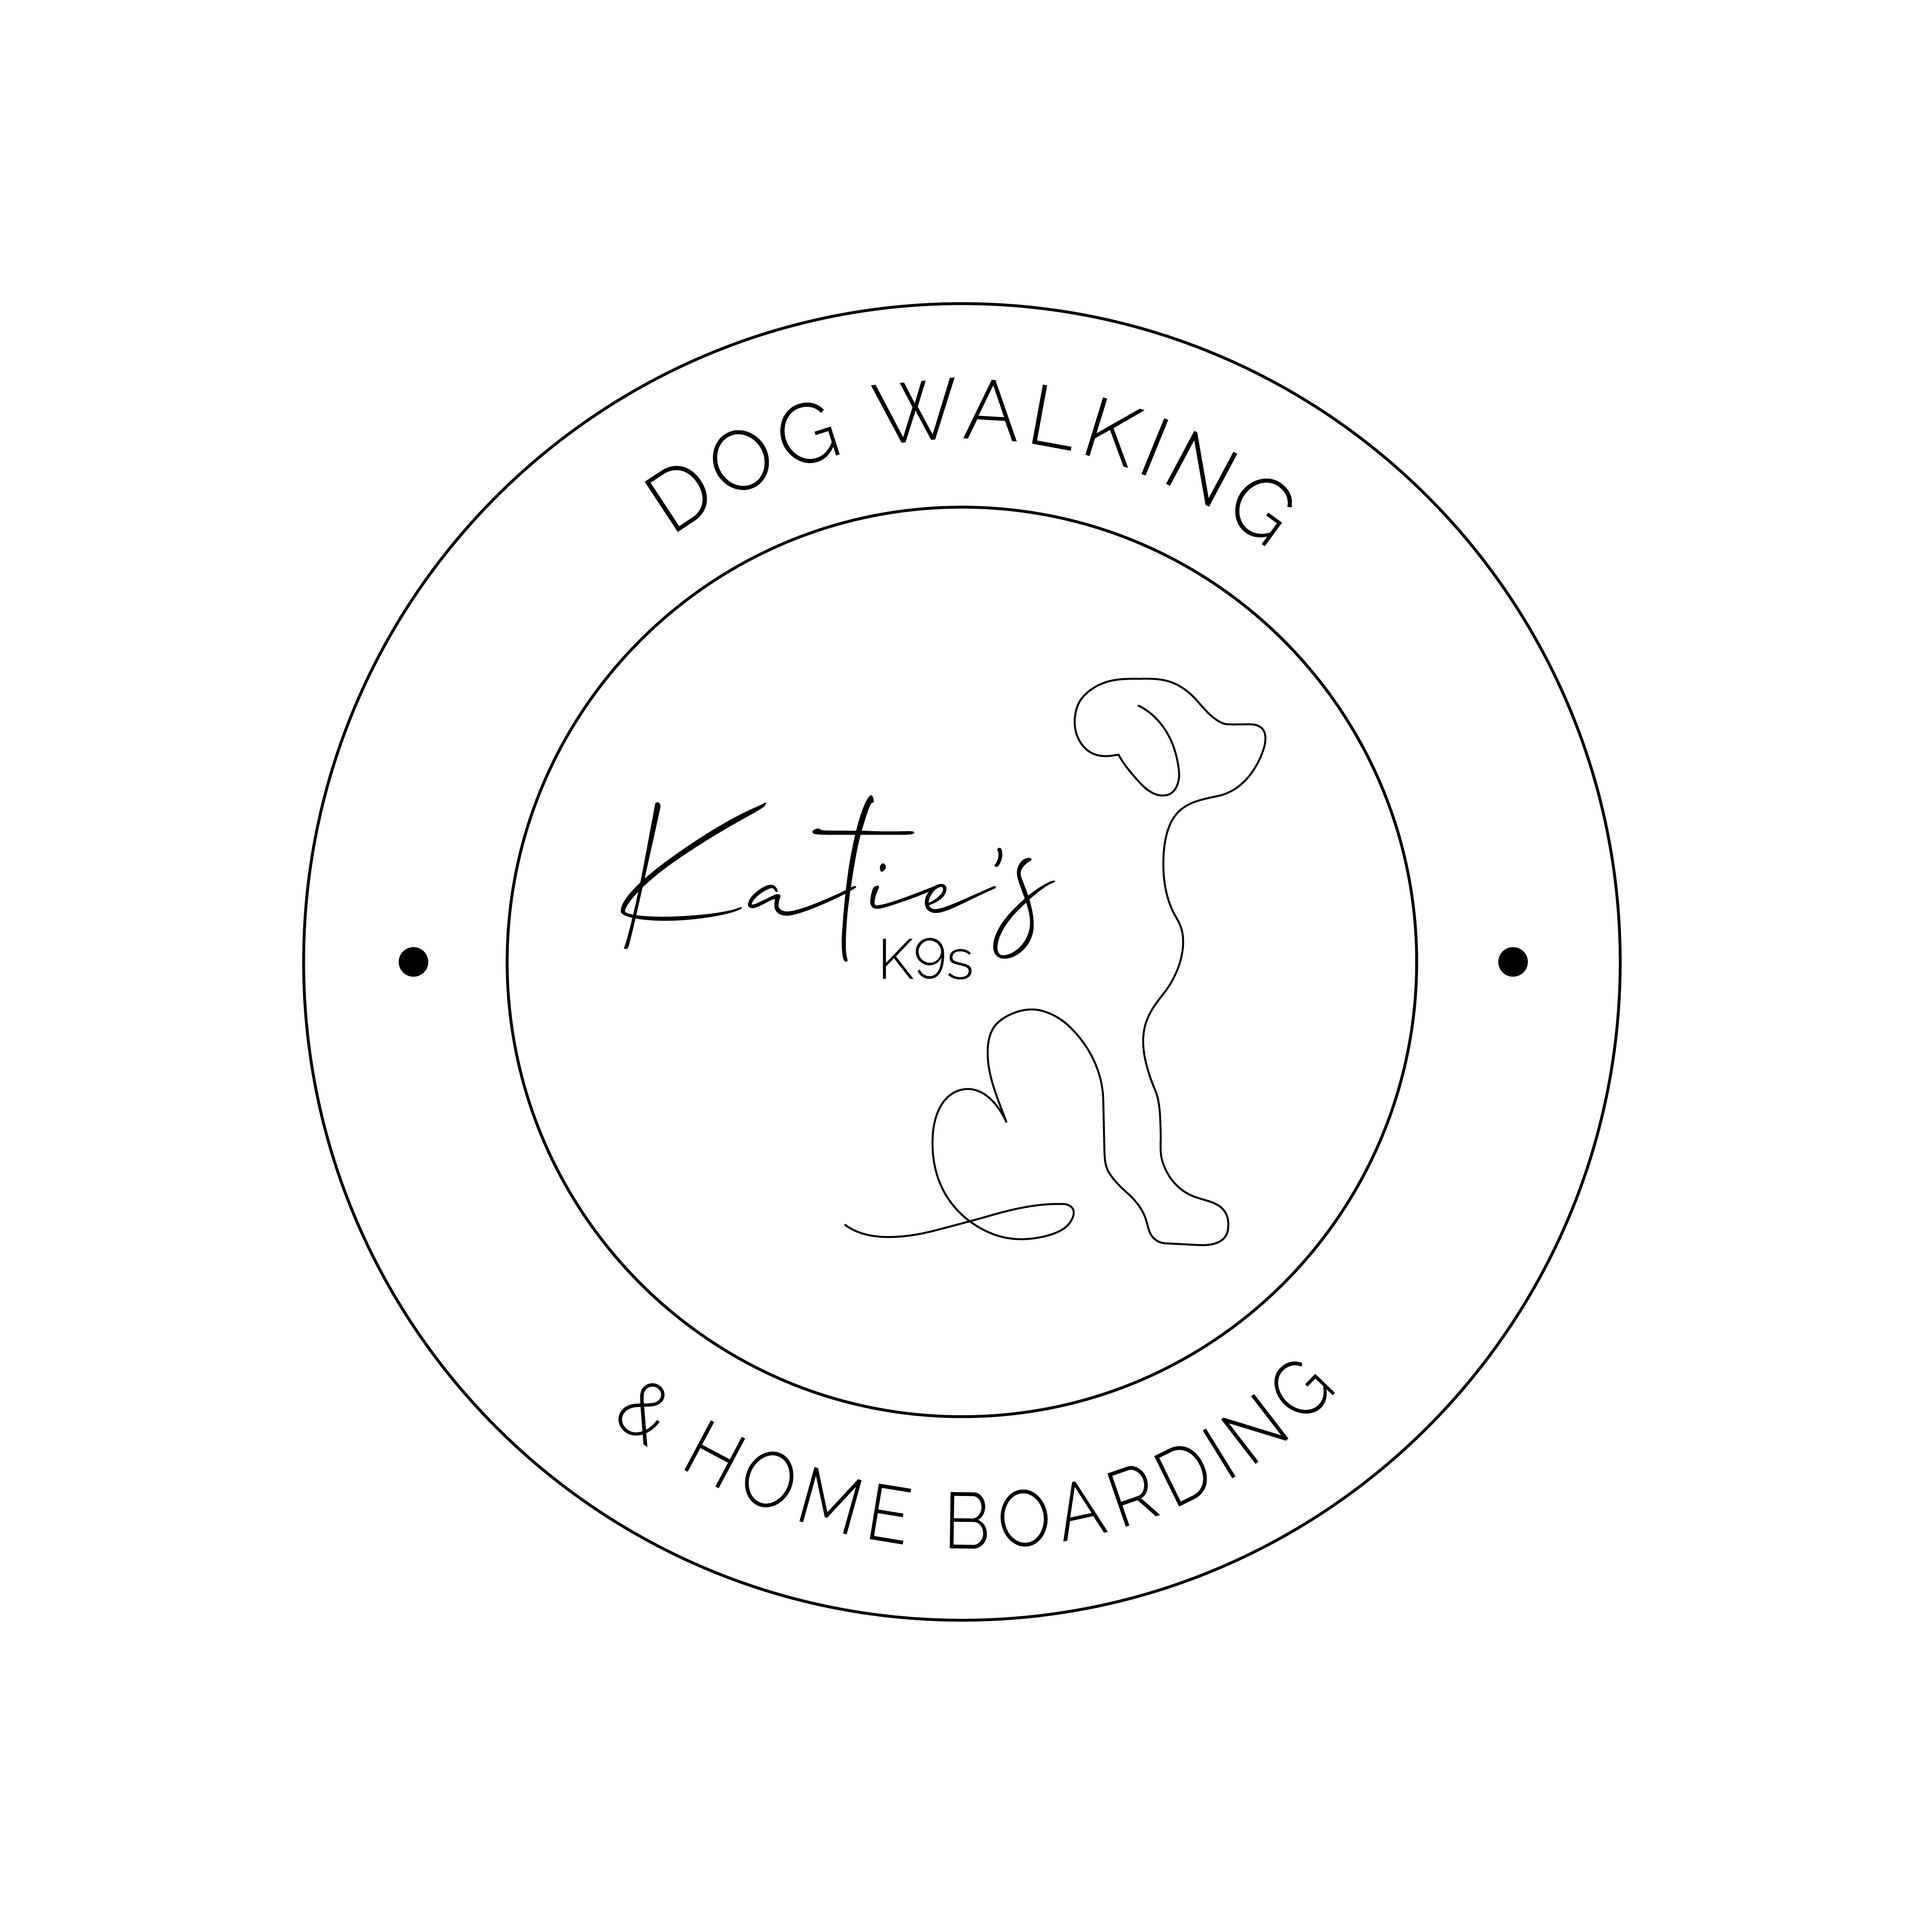
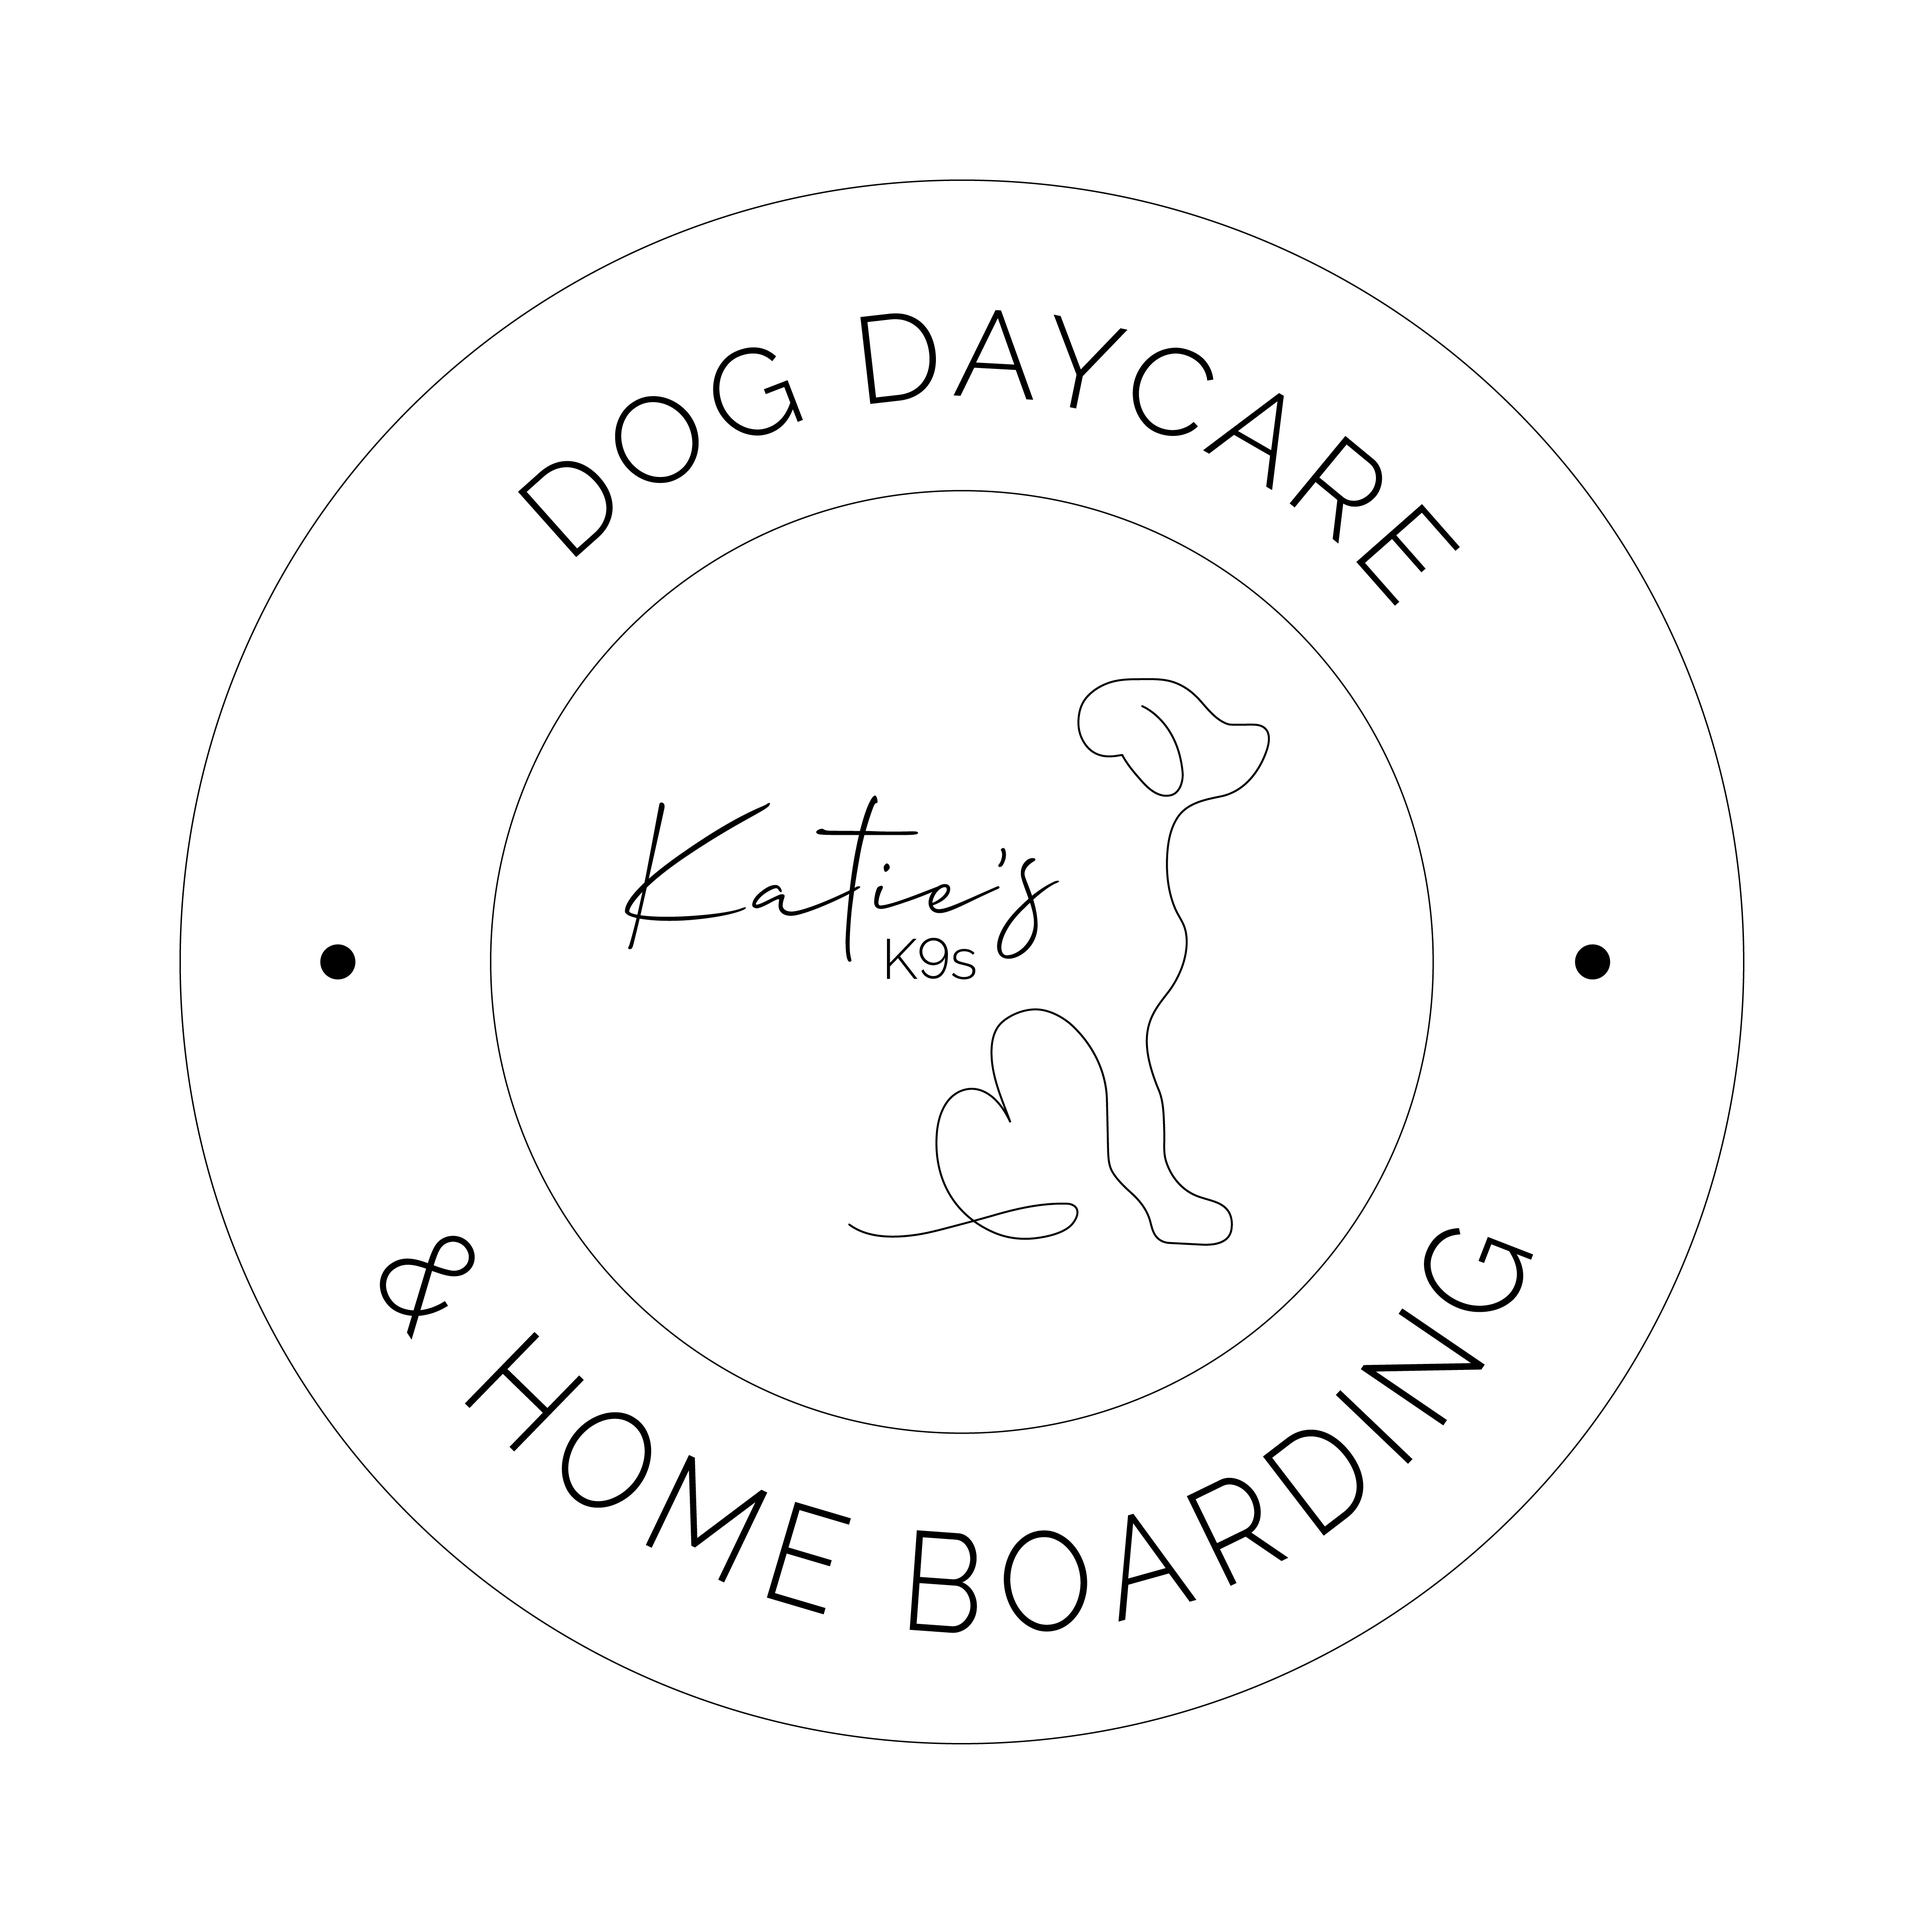
removed dog walking

diff --git a/services.html b/services.html
@@ -3,7 +3,7 @@
 
     <head>
         <meta name="viewport" content="width=device-width, initial-scale=1">
-        <meta name="description" content="Katie's K9s - high quality care for your dog offering dog walking, home dog boarding in congleton, cheshire.">
+        <meta name="description" content="Katie's K9s - high quality care for your dog offering dog daycare, home dog boarding in congleton, cheshire.">
         <link rel="icon" type="image/png" href="/favicon-96x96.png" sizes="96x96" />
         <link rel="icon" type="image/svg+xml" href="/favicon.svg" />
         <link rel="shortcut icon" href="/favicon.ico" />
@@ -50,21 +50,6 @@
                 <p>£25 full day (8am – 6pm)</p>
                 <p>£20 half day (3-6 hours)</p>
                 <p>£15 part day (3 hours or less) </p>
-            </div>
-            <div class="card">
-                <img src="./resources/images/animal.png" alt="Group walk icon" class="responsiveImage">
-                <h2>Group Walk</h2>
-                <p>If your sociable dog is looking for a mini adventure with some furry friends, our group walk will be perfect for them.</p>
-                <p>£15 (1 hour walk)</p>
-                <p>£5 per additional dog from the same household </p>
-            </div>
-            <div class="card">
-                <img src="./resources/images/solo-walk.png" alt="Solo walk icon" class="responsiveImage">
-                <h2>Solo Walk</h2>
-                <p>If your dog is a little more shy and prefers some one on one time, our solo walks can be planned to suit to their needs.</p>
-                <p>£15 (30 minute walk)</p>
-                <p>£20 (1 hour walk)</p>
-                <p>£5 per additional dog from the same household </p>
             </div>
             <div class="card">
                 <img src="./resources/images/playing.png" alt="Home and puppy visits icon" class="responsiveImage">

diff --git a/index.html b/index.html
@@ -2,7 +2,7 @@
 <hmtl>
   <head>
     <meta name="viewport" content="width=device-width, initial-scale=1">
-    <meta name="description" content="Katie's K9s - high quality care for your dog offering dog walking, home dog boarding in congleton, cheshire.">
+    <meta name="description" content="Katie's K9s - high quality care for your dog offering dog daycare, home dog boarding in congleton, cheshire.">
     <link rel="icon" type="image/png" href="/favicon-96x96.png" sizes="96x96" />
     <link rel="icon" type="image/svg+xml" href="/favicon.svg" />
     <link rel="shortcut icon" href="/favicon.ico" />
@@ -47,7 +47,7 @@
         <p>It is our mission to provide the highest quality of care, enrichment and stimulation to your beloved dog whilst in our care. Whether that’s for a mini adventure on a group walk, or joining our family and settling into their home from home for a long stay, we promise to always deliver the best care and experiences to your furriest family members. </p>
         <p>We provide a safe, homely and caring environment for your dogs in our high standard licenced home boarding establishment (CE/HB232). Giving you the reassurance that your fur babies are in the best hands when away from home. Katie’s K9s is fully insured, DBS checked and canine first aid trained.</p>
         <p>At Katie’s K9s we welcome all different dog personalities, the lively, shy, energetic and those who just want to enjoy a cuddly snooze! We will cater to your preferences and your dog’s needs.</p>
-        <p>We offer a wide range of services including home dog boarding, doggy day care, group walks and drop ins. Please see our services page for more information.</p>
+        <p>We offer a wide range of services including home dog boarding, doggy day care and drop ins. Please see our services page for more information.</p>
       </div>
       
       <div class="bgimg-2">

diff --git a/credits.html b/credits.html
@@ -1,7 +1,7 @@
 <html>
     <head>
         <meta name="viewport" content="width=device-width, initial-scale=1">
-        <meta name="description" content="Katie's K9s - high quality care for your dog offering dog walking, home dog boarding in congleton, cheshire.">
+        <meta name="description" content="Katie's K9s - high quality care for your dog offering dog daycare, home dog boarding in congleton, cheshire.">
         <link rel="icon" type="image/png" href="/favicon-96x96.png" sizes="96x96" />
         <link rel="icon" type="image/svg+xml" href="/favicon.svg" />
         <link rel="shortcut icon" href="/favicon.ico" />
@@ -37,8 +37,6 @@
                 acknowledge this use:
             </p>
         </span>
-        <a href="https://www.flaticon.com/free-icons/dog-walking" title="dog walking icons" target="_blank">Dog walking icons created by Freepik - Flaticon</a><br />
-
         <a href="https://www.flaticon.com/free-icons/dog-house" title="Dog house icons" target="_blank">Dog house icons created by kmg design - Flaticon</a><br />
 
         <a href="https://www.flaticon.com/free-icons/animal-shelter" title="animal shelter icons" target="_blank">Animal shelter icons created by Freepik - Flaticon</a><br />

diff --git a/contact.html b/contact.html
@@ -3,7 +3,7 @@
 
     <head>
         <meta name="viewport" content="width=device-width, initial-scale=1">
-        <meta name="description" content="Katie's K9s - high quality care for your dog offering dog walking, home dog boarding in congleton, cheshire.">
+        <meta name="description" content="Katie's K9s - high quality care for your dog offering dog daycare, home dog boarding in congleton, cheshire.">
         <link rel="icon" type="image/png" href="/favicon-96x96.png" sizes="96x96" />
         <link rel="icon" type="image/svg+xml" href="/favicon.svg" />
         <link rel="shortcut icon" href="/favicon.ico" />

diff --git a/gallery.html b/gallery.html
@@ -3,7 +3,7 @@
 
     <head>
         <meta name="viewport" content="width=device-width, initial-scale=1">
-        <meta name="description" content="Katie's K9s - high quality care for your dog offering dog walking, home dog boarding in congleton, cheshire.">
+        <meta name="description" content="Katie's K9s - high quality care for your dog offering dog daycare, home dog boarding in congleton, cheshire.">
         <link rel="icon" type="image/png" href="/favicon-96x96.png" sizes="96x96" />
         <link rel="icon" type="image/svg+xml" href="/favicon.svg" />
         <link rel="shortcut icon" href="/favicon.ico" />

diff --git a/reviews.html b/reviews.html
@@ -3,7 +3,7 @@
 
     <head>
         <meta name="viewport" content="width=device-width, initial-scale=1">
-        <meta name="description" content="Katie's K9s - high quality care for your dog offering dog walking, home dog boarding in congleton, cheshire.">
+        <meta name="description" content="Katie's K9s - high quality care for your dog offering dog daycare, home dog boarding in congleton, cheshire.">
         <link rel="icon" type="image/png" href="/favicon-96x96.png" sizes="96x96" />
         <link rel="icon" type="image/svg+xml" href="/favicon.svg" />
         <link rel="shortcut icon" href="/favicon.ico" />

diff --git a/components/footer.html b/components/footer.html
@@ -1,4 +1,4 @@
 <div class="footer" id="footer">
-    © Katie’s K9s – Fully insured cheshire based home dog boarding and dog walking service - All rights reserved. 
+    © Katie’s K9s – Fully insured cheshire based home dog boarding and dog daycare service - All rights reserved. 
     <a href="credits.html"><u>Acknowledgments</u></a>
 </div>
